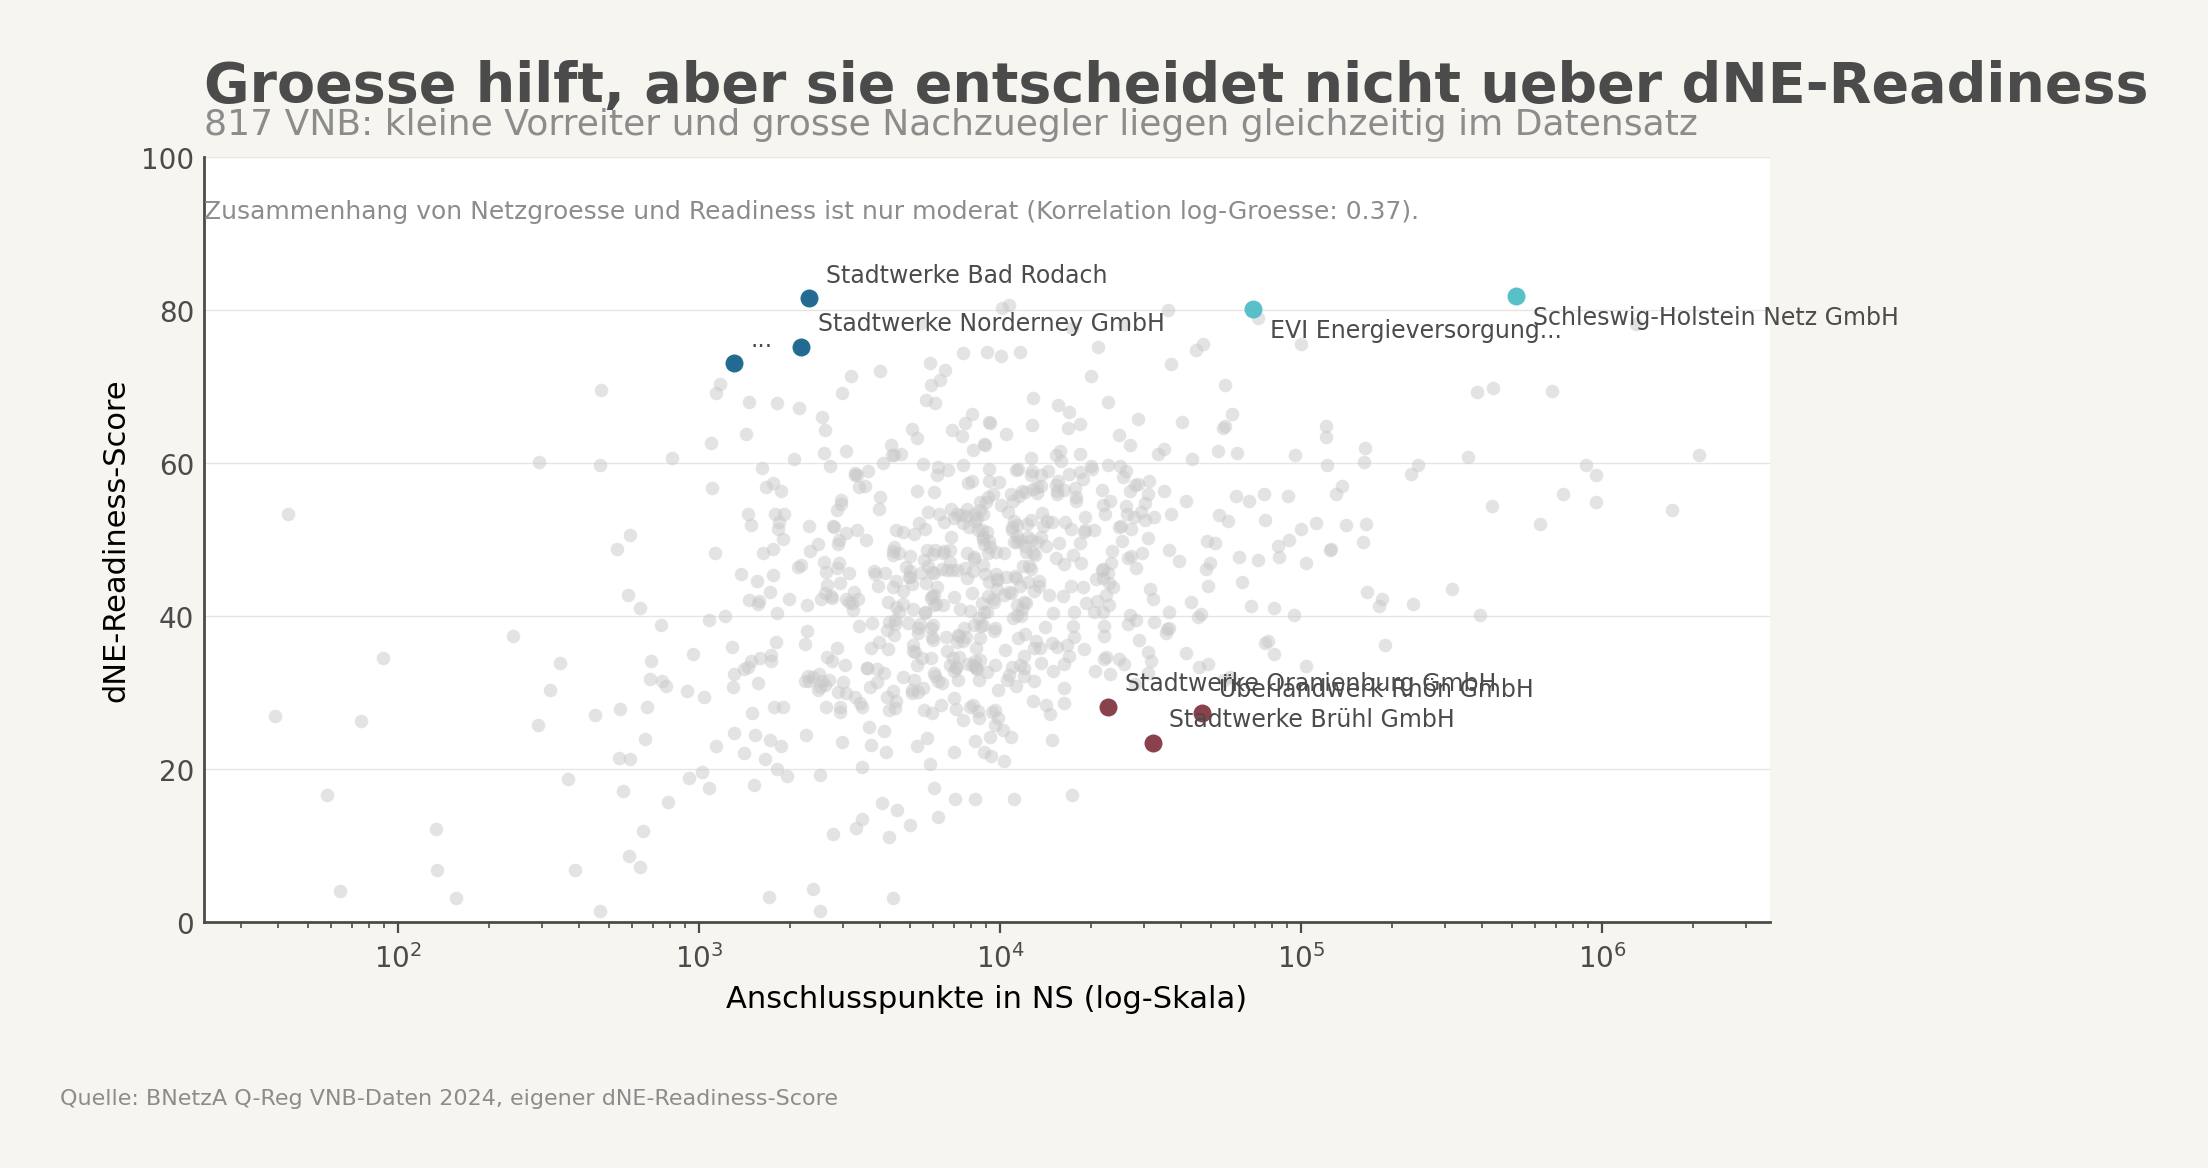
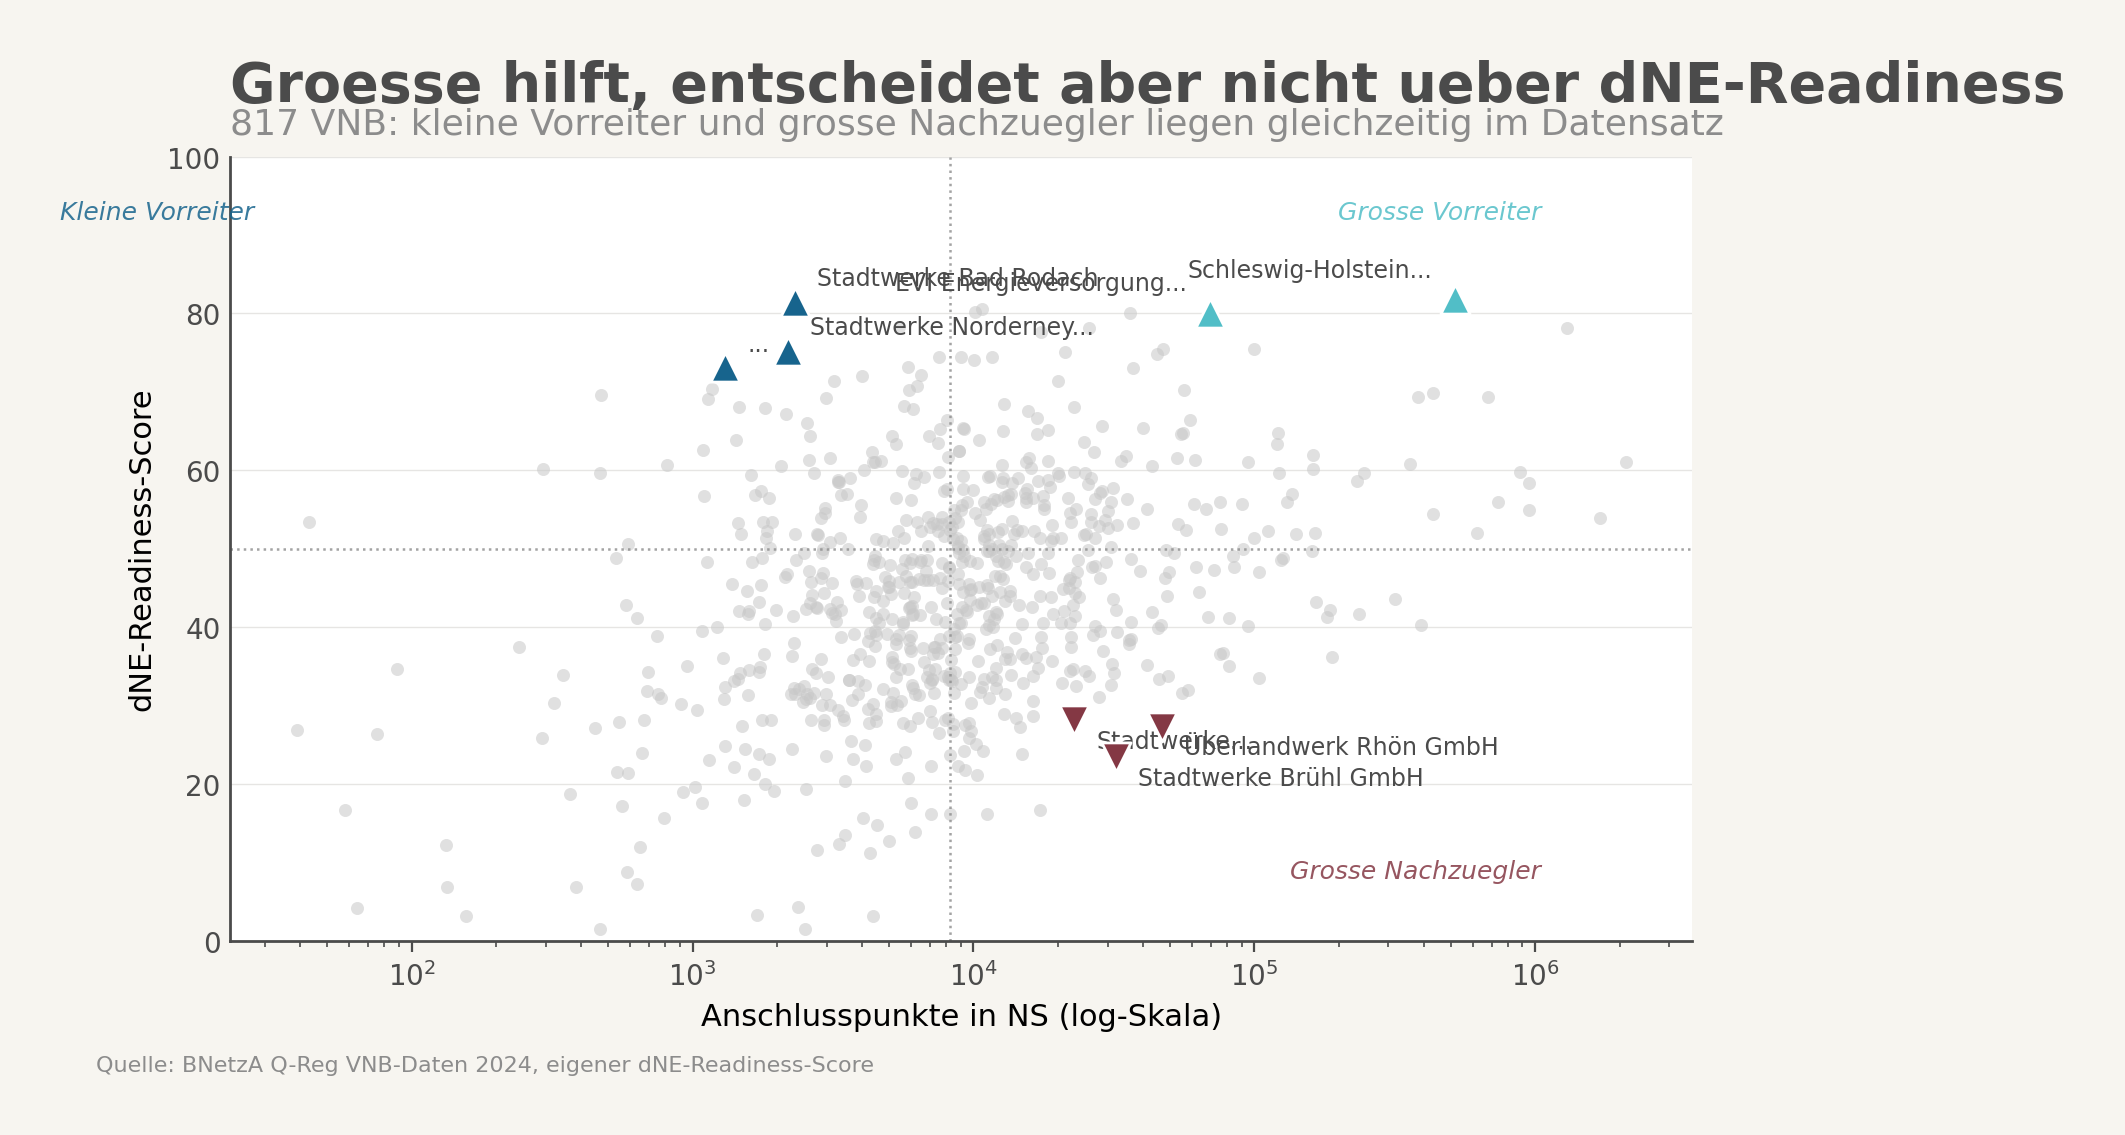
Refresh VNB readiness charts and longform updates
Re-design the three readiness charts via the upgraded viz-advisor agent:
slope chart with direct labels for the bucket-components chart, semantic
threshold-aware colour and reference line for the feature-gaps chart,
and quadrant-structured scatter with marker-shape distinction for the
size-vs-readiness chart. Also picks up the rewritten netzentgelt longform
(new Hauptbefund / Mainstream-Frame structure).

diff --git a/content/posts/netzentgelt-explosion-2024/index.md b/content/posts/netzentgelt-explosion-2024/index.md
@@ -9,96 +9,97 @@ subtitle: Wie der Wegfall des 24b-Bundeszuschusses 2024 die UeNB-Entgelte verdop
 tag: Regulierung
 tags:
 - Regulierung
-read_time: 7 Min.
+read_time: 8 min
 linkedin_post: 2026-05-01_netzentgelt-explosion-2024
 analyses:
 - 2026-04-30_netzentgelt-explosion-2024
-hypothesis: 2026-04-23_netzentgelt-explosion-2024
+hypothesis: 2026-04-23_netzentgelte-regionale-armut
 ---
 
-## Ausgangspunkt
+## Auslöser
 
-2024 stiegen die Uebertragungsnetzentgelte in Deutschland um 117%. Gleichzeitig sank die regionale Spreizung der Verteilnetzentgelte. Das klingt nach einer guten und einer schlechten Nachricht. In Wirklichkeit ist beides dieselbe Geschichte, und sie ist komplizierter als es auf den ersten Blick aussieht.
+Im November 2023 hat das Bundesverfassungsgericht den Nachtragshaushalt 2021 fuer verfassungswidrig erklaert. Der Bundeszuschuss zu den Uebertragungsnetzentgelten nach Paragraph 24b EnWG, der 2023 noch 12,84 Mrd. EUR betrug, war damit ohne Finanzierungsgrundlage. Fuer das erste Halbjahr 2024 wurde der bereits geplante Zuschuss von 5,5 Mrd. EUR gestrichen. Der naechste BNetzA-Monitoringbericht zeigte das Ergebnis: 117 Prozent mehr UeNB-Entgelt von einem Jahr aufs andere.
 
-Dieser Artikel dokumentiert die Analyse hinter dem LinkedIn-Post zur Netzentgelt-Spreizung. Er erklaert, wie die Hypothese entstanden ist, welche Daten sie stuetzen, wo die Grenzen liegen und warum der Rueckgang der Spreizung 2024 keine Entwarnung ist.
+Im selben Bericht stand eine zweite, scheinbar gegenlaeufige Zahl. Die regionale Spreizung der Verteilnetzentgelte zwischen Bremen und Brandenburg sank 2024 wieder. Eine schlechte und eine gute Nachricht? In Wirklichkeit ist beides dieselbe Geschichte.
 
-## Wie die Hypothese entstanden ist
+## Hauptbefund
 
-Die Ausgangsvermutung war einfach: Der Wegfall des Bundeszuschusses nach Paragraph 24b EnWG hat die UeNB-Entgelte 2024 schlagartig verdoppelt, und die regionale Spreizung der VNB-Netzentgelte hat 2023 einen neuen Hoechststand erreicht. Beides steht in den BNetzA-Monitoringberichten, wird aber selten zusammen betrachtet.
+**Die Uebertragungsnetzentgelte sind 2024 von 0,54 auf 1,17 ct/kWh gesprungen, eine Verdopplung in einem Jahr.** Alle vier Uebertragungsnetzbetreiber (50Hertz, Amprion, TenneT, TransnetBW) liegen exakt auf demselben Wert, weil der Bundeszuschuss bis 2023 die Entgelte kuenstlich auf einen einheitlichen Korridor gehalten hatte. Mit dem Wegfall des Paragraph-24b-Zuschusses zeigt sich die wahre Hoehe.
 
-Plausibel war das, weil der Bundeszuschuss (12,84 Mrd. EUR fuer 2023, finanziert ueber das Strompreisbremsegesetz) die UeNB-Entgelte kuenstlich niedrig gehalten hatte. Als das Bundesverfassungsgericht im November 2023 den Nachtragshaushalt kippte, fiel die Finanzierungsgrundlage weg. Der fuer das erste Halbjahr 2024 geplante Zuschuss von 5,5 Mrd. EUR wurde gestrichen.
+**Die regionale Spreizung der Verteilnetzentgelte sank 2024 von 1,99 auf 1,59, hat aber nichts mit Entwarnung zu tun.** Der Rueckgang kommt zustande, weil die guenstigen Bundeslaender (Bayern +35 Prozent, Bremen +32 Prozent, NRW +30 Prozent) deutlich teurer wurden, waehrend die teuren stagnierten (Brandenburg unveraendert, Mecklenburg-Vorpommern +3 Prozent). Das ist Nivellierung nach oben, nicht Konvergenz nach unten. 2025 dreht das Muster wieder, der Spreizungsfaktor klettert auf 1,78.
 
-Drei Gegenhypothesen standen im Raum: Erstens, dass die Spreizung schon immer so hoch war und nur die Absolutwerte gestiegen sind. Zweitens, dass der Zuschuss-Wegfall fuer den Buerger ein Nullsummenspiel ist, weil die Kosten vorher ueber Steuern finanziert wurden. Drittens, dass die Spreizung nicht mit dem EE-Ausbau zusammenhaengt, sondern mit der Siedlungsdichte.
+In Summe: das deutsche Netzentgelt-System ist strukturell instabil. Zwei sich gegenlaeufig bewegende Effekte erzeugen Zickzack-Zeitreihen ohne klaren Trend. Wer in dem Mustern Entwarnung liest, liest falsch.
 
-Die Frage hat sich analytisch gelohnt, weil die BNetzA die Daten publiziert, aber niemand sie als Zeitreihe aufbereitet. Die Netzentgelt-Debatte wird abstrakt gefuehrt, die konkreten Zahlen kennt kaum jemand.
+## Was der Mainstream-Frame verdeckt
 
-## Datenbasis
+Die oeffentliche Kommunikation 2024 fokussierte auf zwei Dinge: den UeNB-Sprung als kurzfristigen Schock und die Hoffnung, die Spreizung sei kein dauerhaftes Problem. Beide Lesarten greifen zu kurz.
 
-Die Analyse stuetzt sich auf die Tabelle `bnetza.netzentgelte_strom` mit 1.116 Datensaetzen, extrahiert aus den BNetzA-Monitoringberichten der Jahre 2015 bis 2025.
+Erstens, weil die Bundesland-Mittelwerte die wahre Spreizung systematisch unterzeichnen. Die BNetzA-Daten geben mengengewichtete Durchschnittswerte je Bundesland. Auf Netzbetreiber-Ebene unterscheiden sich die Entgelte nach Verbraucherzentrale-Daten um bis zu 15 ct/kWh. Wenn der gewichtete Bundesland-Durchschnitt schon 1,99-fach spreizt, ist die wahre Streuung zwischen einzelnen Verteilnetzen ein Vielfaches davon.
 
-Zwei Datenstrecken:
+Zweitens, weil der Spreizungsfaktor als Kennzahl Bewegungen verschleiert. Ein Faktor 1,59 in 2024 sieht nach Annaeherung aus. In Wirklichkeit sind alle Bundeslaender in absoluten Werten teurer geworden, nur unterschiedlich stark. Brandenburg blieb bei exakt 12,45 ct/kWh. Bayern stieg von 7,82 auf 10,56 ct/kWh. Beide sind teurer als 2023, aber Bayern ist relativ schneller geworden, also schrumpft das Verhaeltnis.
 
-1. **UeNB-Entgelte 2014-2024**: Der Arbeitspreis fuer Industriekunden (Referenz: 4500 Volllaststunden, Hoechstspannungsebene HoeS) fuer die vier Uebertragungsnetzbetreiber 50Hertz, Amprion, TenneT und TransnetBW. Das ist der Referenzfall, den die BNetzA in den Monitoringberichten ausweist. Fuer Haushaltskunden gelten andere Werte, weil mehrere Netzebenen und Lastprofile in das Gesamtnetzentgelt einfliessen.
+Die wirkliche Verteilungsfrage liegt deshalb nicht im Spreizungsfaktor, sondern in der absoluten Belastung. Brandenburg-Haushalte zahlen 2024 weiterhin mehr fuer Netzentgelte als Bayern-Haushalte. Der Faktor faellt nur, weil Bayern aufholt. Aus Sicht eines Haushalts ist das keine Entlastung.
 
-2. **VNB-Haushaltsnetzentgelte 2017-2025**: Mengengewichtete Mittelwerte des Arbeitspreises fuer Haushaltskunden je Bundesland. Ohne Grundpreis (der im Bundesdurchschnitt 2024 bei 75 EUR lag, mit Maxima bis 200 EUR) und ohne Messstellenbetrieb. Diese Mittelwerte glaetten die VNB-interne Spreizung erheblich. Laut Verbraucherzentrale Bundesverband liegen die Unterschiede auf Netzbetreiberebene bei bis zu 15 ct/kWh. Der Spreizungsfaktor 1,99 auf Bundesland-Ebene ist damit eher die Untergrenze der realen Spreizung.
+## Wo die Reform-Diagnose wirklich liegt
 
-Keine Ausschluesse, keine Filter. Alle 16 Bundeslaender, alle vier UeNBs.
+Die strukturelle Diagnose ist eine andere. Das deutsche Netzentgelt-System ist seit 20 Jahren auf Kosten-Anpassung kalibriert, nicht auf Kosten-Verteilung. Wer Netz baut und Last hat, zahlt. Wer dezentral einspeist und Netz braucht, zahlt mit. Die UeNB- und VNB-Ebenen sind dabei methodisch entkoppelt: Die UeNB-Entgelte werden inzwischen bundeseinheitlich gewaelzt, die VNB-Entgelte je Netzbetreiber kalkuliert.
 
-## Vorgehen
+Diese Trennung wird in der naechsten Reformrunde anders. Im August 2024 hat die BNetzA entschieden, EE-bedingte Verteilnetzkosten ab 2025 bundesweit zu wälzen. Ab 2026 gilt ein Aufschlag fuer besondere Netznutzung von 1,56 ct/kWh. Das ist die direkte regulatorische Antwort auf die regionale Spreizung. Ob sie wirkt, zeigen die naechsten Monitoringberichte.
 
-Die Analyse bestand aus drei Schritten.
+Parallel laeuft das AgNes-Verfahren der BNetzA, das ab 2029 dynamische Netzentgelte einfuehren soll. Das ist die zweite Reform-Schicht, sie wirkt zeitlich versetzt. Wer die heutige Spreizung loesen will, hat zwei Hebel: bundesweite Waelzung als kurzfristigen Ausgleich, dynamische Netzentgelte als langfristige Standortsteuerung. Beide haben Risiken, beide werden separat heftig diskutiert. Was im aktuellen System fehlt, ist ein dritter Hebel: eine soziale Komponente, die Haushalte mit geringem Verbrauch, die ueberproportional vom Grundpreis getroffen werden, gegen die naechsten Wellen schuetzt.
 
-**Schritt 1: UeNB-Zeitreihe.** Zuerst habe ich die Entgelte der vier UeNBs als Zeitreihe 2014-2024 aufgetragen. Das Ergebnis war ueberraschend klar: Vor 2023 hatte jeder UeNB eigene Entgelte. TenneT war der Ausreisser nach oben (bis 0,70 ct/kWh in 2018), TransnetBW lag am niedrigsten (0,19 ct/kWh in 2014). Ab 2018 konvergierten alle vier langsam, bis sie 2023 bei exakt 0,54 ct/kWh landeten, dem Wert nach Paragraph 24b. 2024 sprangen alle vier auf 1,17 ct/kWh. Die Konvergenz vor der Vereinheitlichung zeigt, dass die regulatorische Angleichung schon laenger lief. Der Zuschuss hat den Sprung nur kuenstlich verzoegert.
+## Internationaler Kontext
 
-![UeNB-Entgelte 2014-2024: Konvergenz und Sprung nach Paragraph 24b](netzentgelte_uenb_zeitreihe.png)
+Im EU-Vergleich ist die deutsche Spreizung ungewoehnlich. Frankreich kennt nur eine UeNB-Ebene mit nationalem Tarif, die VNB-Ebene wird ueber regulierte Konzessionsvertraege gleichgeschaltet. Das niederlaendische Modell aehnelt dem deutschen, aber mit einer Anschluss-Kostendeckung durch den Netzbetreiber, nicht durch den Investor. Beide Laender haben deutlich kleinere Spreizungen.
 
-**Schritt 2: Bundesland-Ranking 2023.** Als naechstes habe ich die VNB-Haushaltsnetzentgelte fuer 2023 nach Bundesland sortiert. Bremen lag bei 6,27 ct/kWh, Brandenburg bei 12,45 ct/kWh. Der Spreizungsfaktor Max/Min betrug 1,99. Das Ost-West-Muster ist sichtbar, aber nicht deterministisch: Schleswig-Holstein (12,15 ct/kWh, West) und Hamburg (10,63 ct/kWh, West) liegen ueber dem Bundesdurchschnitt von 9,23 ct/kWh, waehrend Bayern (7,82 ct/kWh, West) und Thueringen (8,33 ct/kWh, Ost) nah beieinander liegen. Die treibende Variable ist nicht Ost vs. West, sondern die Kombination aus EE-Ausbau und Siedlungsdichte.
+Die deutsche Eigenheit liegt in zwei Punkten: erstens an der historisch gewachsenen Vielzahl von 866 Verteilnetzbetreibern mit eigenen Kalkulationsregeln. Zweitens an der bewussten Entscheidung, EE-Anschlusskosten direkt im jeweiligen Verteilnetz zu kalkulieren statt bundesweit zu waelzen. Diese Entscheidung steht jetzt zur Korrektur an.
 
-![VNB-Haushaltsnetzentgelte je Bundesland 2023, sortiert](netzentgelte_bundeslaender_ranking.png)
+## Was die Untersuchung gelernt hat
 
-{{< map src="/maps/netzentgelt-explosion-2024/netzentgelte_choropleth_2020_2024.html" caption="Interaktive Karte: VNB-Mittelwerte je Bundesland mit Slider 2020-2024" >}}
+Die Ausgangsvermutung lautete: die Spreizung waechst monoton, der UeNB-Sprung ist eine separate Geschichte. Beide Annahmen waren zu einfach.
 
-**Schritt 3: Spreizungsfaktor-Zeitreihe und der 2024-Twist.** Dann habe ich den Spreizungsfaktor fuer jedes Jahr 2017-2025 berechnet: das Verhaeltnis des teuersten zum guenstigsten Bundesland. Das Ergebnis war kein monotoner Anstieg, sondern ein Zickzack: 1,60 (2017), 1,89 (2018), 1,68 (2019), 1,73 (2020), 1,85 (2021), 1,67 (2022), 1,99 (2023), 1,59 (2024), 1,78 (2025). Der Rueckgang 2024 auf 1,59 sah nach Entwarnung aus. War er nicht.
+Geschaerft: die Spreizung ist nicht monoton, sondern volatil mit Zickzack-Muster zwischen 1,59 und 1,99 in nur acht Jahren. Sie schwankt staerker als die regulatorischen Entscheidungen es erklaeren koennten. Plus: der UeNB-Sprung und der Spreizungs-Rueckgang 2024 sind direkt verbunden, nicht zwei getrennte Geschichten. Beide sind Folge derselben fiskalischen Entscheidung.
 
-![Spreizungsfaktor 2017-2025: Zickzack ohne klaren Trend](netzentgelte_spreizungsfaktor.png)
+Bestaetigt: die Verteilungswirkung ist scharf. Brandenburg-Haushalte zahlen ein Vielfaches der Bremer Haushalte fuer dieselbe Kilowattstunde Netzentgelt. Wer das fuer ein Detail haelt, hat den Effekt nicht in Euro pro Jahr und Haushalt umgerechnet.
 
-Ein Vergleich 2023 vs. 2024 auf Bundesland-Ebene zeigte: Brandenburg blieb bei exakt 12,45 ct/kWh (+0%), Mecklenburg-Vorpommern stieg nur um 3%. Gleichzeitig legten Bayern um 35% zu (7,82 auf 10,56 ct/kWh), Bremen um 32%, NRW um 30%. Die billigen Bundeslaender holten auf, die teuren stagnierten. Das drueckte den Spreizungsfaktor rechnerisch nach unten, obwohl fast alle Bundeslaender absolut teurer wurden. Nivellierung nach oben.
-
-## Ergebnisse
-
-**Befund 1: UeNB-Verdopplung bestaetigt.** 0,54 auf 1,17 ct/kWh (+117%), getrieben durch den Wegfall des Bundeszuschusses nach dem BVerfG-Haushaltsurteil. Die Vereinheitlichung auf einen Wert zeigt, dass alle vier UeNBs regulatorisch gleichgeschaltet sind.
-
-**Befund 2: VNB-Rekordspreizung 2023.** Faktor 1,99 (Bremen 6,27 vs. Brandenburg 12,45 ct/kWh). Der hoechste Wert im Betrachtungszeitraum 2017-2025.
-
-**Befund 3: Nivellierung nach oben 2024.** Die Spreizung sank auf 1,59, aber nur weil die billigen Bundeslaender stark anstiegen (Bayern +35%, Bremen +32%), waehrend die teuren weitgehend stagnierten (Brandenburg +0%). Strukturell keine Entwarnung.
-
-**Befund 4: 2025 mischt die Karten neu.** Brandenburg faellt auf 10,28 ct/kWh, Hamburg schiesst auf 14,17 ct/kWh an die Spitze. Die Spreizung steigt wieder auf 1,78. Das Zickzack-Muster ohne klaren Trend zeigt ein strukturell instabiles System.
-
-**Befund 5: Die Stagnation Brandenburgs ist auffaellig.** Ein exakt gleichbleibender Wert bei einem Bundesland mit dynamischem EE-Ausbau und hoher Netzkostendynamik ist erklaerungsbeduerftig. Ob Regulierungseffekt oder Daten-Artefakt im Monitoringbericht, laesst sich aus den vorliegenden Daten nicht klaeren.
-
-## Was das fuer die Hypothese bedeutet
-
-Die Hypothese ist im Kern bestaetigt, wurde aber durch die Analyse erheblich erweitert.
-
-Die UeNB-Verdopplung durch den Paragraph-24b-Wegfall ist der einfachste Teil: klar, quantifizierbar, kausal nachvollziehbar. Die VNB-Spreizung ist komplexer. Der Rekord 2023 ist bestaetigt, aber die Zeitreihe zeigt, dass die Spreizung nicht monoton waechst, sondern schwankt. Die urspruengliche Intuition war "die Spreizung waechst", der tatsaechliche Befund ist "die Spreizung ist volatil und strukturell instabil".
-
-Der unerwartete Befund der Nivellierung nach oben 2024 war nicht Teil der Ausgangshypothese. Er zeigt, dass sinkende Spreizungsfaktoren nicht automatisch Entwarnung bedeuten, wenn sie durch allgemeine Kostensteigerungen getrieben werden.
+Relativiert: ein einzelner Bundesland-Mittelwert sagt wenig. Die Verteilungswirkung auf Netzbetreiber-Ebene ist deutlich groesser, aber in den BNetzA-Daten nur indirekt sichtbar.
 
 ## Grenzen und offene Punkte
 
-**Bundesland-Mittelwerte verschleiern die VNB-Spreizung.** Die BNetzA-Daten zeigen mengengewichtete Mittelwerte. Die wahre Spreizung auf Netzbetreiberebene ist dramatisch groesser.
+Sechs methodische Vorbehalte sind explizit zu nennen.
 
-**Grundpreis fehlt.** Die Analyse betrachtet nur den Arbeitspreis (ct/kWh). Der Grundpreis (im Bundesdurchschnitt 75 EUR/Jahr in 2024) belastet Haushalte mit geringem Verbrauch ueberproportional.
+**Bundesland-Mittelwerte verschleiern die VNB-Spreizung.** Die BNetzA publiziert mengengewichtete Mittelwerte. Die wahre Spreizung auf Netzbetreiber-Ebene ist dramatisch groesser. Die Verbraucherzentrale Bundesverband nennt Differenzen bis 15 ct/kWh.
 
-**UeNB-Referenzfall ist Industrie, nicht Haushalt.** Die 0,54 und 1,17 ct/kWh gelten fuer Industriekunden auf Hoechstspannungsebene. Fuer Haushaltskunden fliesst der UeNB-Anteil ueber vorgelagerte Netzebenen in das Gesamtnetzentgelt ein und ist nicht direkt vergleichbar.
+**Grundpreis fehlt.** Die Analyse betrachtet nur den Arbeitspreis. Der Grundpreis (Bundesdurchschnitt 75 EUR/Jahr in 2024, mit Maxima bis 200 EUR) belastet Haushalte mit geringem Verbrauch ueberproportional.
 
-**BNetzA-Festlegung ab 2025.** Im August 2024 hat die BNetzA entschieden, EE-bedingte Verteilnetzkosten ab 2025 bundesweit zu waelzen. Ab 2026 gilt ein Aufschlag fuer besondere Netznutzung von 1,56 ct/kWh. Das ist die direkte regulatorische Antwort auf die Spreizung. Ob sie wirkt, zeigen die naechsten Monitoringberichte.
+**UeNB-Referenzfall ist Industrie, nicht Haushalt.** Die 0,54 und 1,17 ct/kWh gelten fuer Industriekunden auf Hoechstspannungsebene. Fuer Haushaltskunden fliesst der UeNB-Anteil ueber vorgelagerte Netzebenen in das Gesamtnetzentgelt ein.
 
-**Kausalitaet EE-Ausbau.** Die Korrelation zwischen hoher EE-Leistung und hohen Netzentgelten (Brandenburg, Schleswig-Holstein) ist plausibel, aber in dieser Analyse nicht quantifiziert. Siedlungsdichte ist ein Confounder.
+**BNetzA-Festlegung ab 2025.** Im August 2024 hat die BNetzA entschieden, EE-bedingte Verteilnetzkosten bundesweit zu waelzen. Ab 2026 gilt ein Aufschlag von 1,56 ct/kWh. Wirkung in den naechsten Monitoringberichten zu beobachten.
 
-**Paragraph 14a EnWG.** Ab 2024 gelten Netzentgeltrabatte fuer steuerbare Verbrauchseinrichtungen (Waermepumpen, Wallboxen). Das veraendert die Netzentgelt-Landschaft zusaetzlich und ist hier nicht beruecksichtigt.
+**Kausalitaet EE-Ausbau.** Die Korrelation zwischen hoher EE-Leistung und hohen Netzentgelten (Brandenburg, Schleswig-Holstein) ist plausibel, aber nicht quantifiziert. Siedlungsdichte ist ein Confounder.
 
-## Verformelung der Berechnung
+**Paragraph 14a EnWG.** Ab 2024 gelten Netzentgeltrabatte fuer steuerbare Verbrauchseinrichtungen (Waermepumpen, Wallboxen). Das veraendert die Landschaft zusaetzlich und ist hier nicht beruecksichtigt.
+
+---
+
+## Anhang A: Datenbasis und Vorgehen
+
+Die Auswertung stuetzt sich auf 1.116 Datensaetze aus den BNetzA-Monitoringberichten 2015 bis 2025. Zwei Datenstrecken.
+
+Erstens die UeNB-Entgelte 2014-2024: der Arbeitspreis fuer Industriekunden bei 4.500 Volllaststunden auf Hoechstspannungsebene fuer die vier Uebertragungsnetzbetreiber. Das ist der Referenzfall, den die BNetzA in den Monitoringberichten ausweist.
+
+Zweitens die VNB-Haushaltsnetzentgelte 2017-2025: mengengewichtete Mittelwerte des Arbeitspreises fuer Haushaltskunden je Bundesland, ohne Grundpreis und ohne Messstellenbetrieb. Diese Mittelwerte glaetten die VNB-interne Spreizung erheblich.
+
+Keine Ausschluesse, keine Filter. Alle 16 Bundeslaender, alle vier Uebertragungsnetzbetreiber.
+
+Vorgehen in drei Schritten. Erstens UeNB-Zeitreihe 2014-2024: der Sprung 2024 wird sichtbar, die Konvergenz vor der Vereinheitlichung zeigt, dass die regulatorische Angleichung schon vor 2023 lief. Zweitens Bundesland-Ranking 2023: Sortierung nach Hoehe, das Ost-West-Muster wird sichtbar aber nicht deterministisch. Drittens Spreizungsfaktor-Zeitreihe 2017-2025: Zickzack-Muster ohne klaren Trend, der scheinbare Rueckgang 2024 ist Nivellierung nach oben.
+
+Drei Charts illustrieren die Befunde:
+- UeNB-Entgelte 2014-2024 (Zeitreihe Konvergenz und Sprung)
+- VNB-Haushaltsnetzentgelte je Bundesland 2023 (Ranking sortiert)
+- Spreizungsfaktor 2017-2025 (Zickzack)
+
+## Anhang B: Verformelung der Berechnung
 
 ```text
 Spreizungsfaktor (Jahr t) = max(VNB_Haushalt_mean_BL_t) / min(VNB_Haushalt_mean_BL_t)
@@ -110,7 +111,7 @@ wobei:
   BL = {Bremen, Hamburg, Bayern, ..., Brandenburg} (16 Bundeslaender)
   t = 2017, 2018, ..., 2025
 
-UeNB-Veraenderung 2024 = (1,17 - 0,54) / 0,54 * 100 = +116,7% ≈ +117%
+UeNB-Veraenderung 2024 = (1,17 - 0,54) / 0,54 * 100 = +116,7% rd. +117%
 
 wobei:
   0,54 ct/kWh = vereinheitlichtes UeNB-Entgelt 2023 (alle 4 UeNBs identisch)
@@ -131,8 +132,10 @@ Beispiel Brandenburg: (12,45 - 12,45) / 12,45 * 100 = +0,0%
 - BNetzA Monitoringbericht 2024 (Daten fuer 2023)
 - BNetzA Monitoringbericht 2025 (Daten fuer 2024 und 2025)
 - BNetzA Festlegung August 2024 zur Verteilung EE-bedingter Verteilnetzkosten (Paragraph 19 StromNEV)
+- Verbraucherzentrale Bundesverband, Netzentgelt-Vergleich auf Netzbetreiber-Ebene 2024
+
+Vault-interne Verweise:
 - Analyse: [2026-04-30_netzentgelt-explosion-2024](../netzentgelt-explosion-2024/)
-- Hypothese: [2026-04-23_netzentgelt-explosion-2024](../netzentgelt-explosion-2024/)
 - Concept: [nord-sued-gefaelle](../nord-sued-gefaelle/)
 - Chart-Skript: `src/viz/netzentgelte_charts.py`
 - Marimo-Notebook: `notebooks/netzentgelt_explosion.py`

diff --git a/content/posts/dne-vnb-implementierungsluecke/index.md b/content/posts/dne-vnb-implementierungsluecke/index.md
@@ -1,10 +1,10 @@
 ---
-title: 'dNE auf VNB-Ebene: Warum die Debatte ein Backend-Test fuer Stadtwerke ist'
+title: 'dNE auf VNB-Ebene: Warum die Debatte ein Backend-Test für Stadtwerke ist'
 date: '2026-05-03'
 slug: dne-vnb-implementierungsluecke
 draft: false
 subtitle: Warum dynamische Netzentgelte auf VNB-Ebene weniger an der Tariflogik als
-  an Netzplanung und IT-Backends haengen.
+  an Netzplanung und IT-Backends hängen.
 tag: Regulierung
 tags:
 - Regulierung
@@ -16,89 +16,83 @@ analyses:
 hypothesis: 2026-05-03_dne-vnb-implementierungsluecke
 ---
 
-## Ausloeser
+## Auslöser
 
-Aurora schrieb Ende April 2026, eine Umsetzung dynamischer Netzentgelte auf der Ebene der Verteilnetzbetreiber sei wegen Zahl der Akteure, Datenpunkte und Schnittstellen praktisch kaum vorstellbar. Gleichzeitig zeigt das AGNES-Handout der Bundesnetzagentur, dass die Debatte nicht im Seminarraum bleibt, sondern in Richtung konkreter Reformpfad ab 2029 laeuft. Das ist der Punkt, an dem die Frage kippt: nicht mehr ob dNE theoretisch effizient sein koennte, sondern ob die VNB-Schicht sie operativ ueberhaupt fahren kann.
+Aurora schrieb Ende April 2026, eine Umsetzung dynamischer Netzentgelte auf der Ebene der Verteilnetzbetreiber sei wegen Zahl der Akteure, Datenpunkte und Schnittstellen praktisch kaum vorstellbar. Gleichzeitig zeigt das AGNES-Handout der Bundesnetzagentur, dass die Debatte nicht im Seminarraum bleibt, sondern in Richtung konkreter Reformpfad ab 2029 läuft. Das ist der Punkt, an dem die Frage kippt: nicht mehr ob dNE theoretisch effizient sein könnte, sondern ob die VNB-Schicht sie operativ überhaupt fahren kann.
 
 ## Ausgangspunkt
 
-Die oeffentliche Debatte ueber dynamische Netzentgelte wird meistens wie eine Preisdebatte gefuehrt. Wer gewinnt regional, wer verliert, was passiert mit Redispatch, wie stark werden Standorteffekte. Die VNB-Perspektive sitzt davor. Wenn die Betreiber regionaler Netze Forecasting, Zeitreihenlogik, Marktkommunikation und abrechenbare Kundenschnittstellen nicht stabil zusammenbekommen, hilft die beste Tarifarchitektur wenig.
+Die öffentliche Debatte über dynamische Netzentgelte wird meistens wie eine Preisdebatte geführt. Wer gewinnt regional, wer verliert, was passiert mit Redispatch, wie stark werden Standorteffekte. Die VNB-Perspektive sitzt davor. Wenn die Betreiber regionaler Netze Forecasting, Zeitreihenlogik, Marktkommunikation und abrechenbare Kundenschnittstellen nicht stabil zusammenbekommen, hilft die beste Tarifarchitektur wenig.
 
-Der erste dNE-Readiness-Score fuer 817 VNB war deshalb kein Ranking aus Neugier, sondern ein Vorabtest auf Umsetzbarkeit. Das Ergebnis ist unangenehm klar: Der Median liegt bei 44,7 Punkten, nur 31 VNB kommen ueber 70, und der groesste Abstand sitzt bei Planung, nicht bei Ausfuehrung.
+Der erste dNE-Readiness-Score für 817 VNB war deshalb kein Ranking aus Neugier, sondern ein Vorabtest auf Umsetzbarkeit. Das Ergebnis ist unangenehm klar: Der Median liegt bei 44,7 Punkten, nur 31 VNB kommen über 70, und der größte Abstand sitzt bei Planung, nicht bei Ausführung.
 
 ## Wie die Hypothese entstanden ist
 
-Die Ausgangsintuition war simpel. Kleine und mittlere Stadtwerke-VNB duerften bei dNE schwacher aufgestellt sein als grosse Verbundakteure. Das lag nahe: weniger Skalenvorteile, weniger IT-Personal, weniger Budget fuer Forecasting und Leitsysteme.
+Die Ausgangsintuition war simpel. Kleine und mittlere Stadtwerke-VNB dürften bei dNE schwacher aufgestellt sein als große Verbundakteure. Das lag nahe: weniger Skalenvorteile, weniger IT-Personal, weniger Budget für Forecasting und Leitsysteme.
 
-Dann kamen die Gegenhypothesen. Erstens: Kleine VNB koennen Shared Services, Dienstleister oder Plattformen einkaufen. Zweitens: Gerade grosse VNB koennten an Legacy-Systemen haengen. Drittens: Die sichtbarsten Kundenschnittstellen, also Portale, Smart-Meter-Seiten und Netzanschluss-Frontends, koennten den Reifegrad ueberschaetzen.
+Dann kamen die Gegenhypothesen. Erstens: Kleine VNB können Shared Services, Dienstleister oder Plattformen einkaufen. Zweitens: Gerade große VNB könnten an Legacy-Systemen hängen. Drittens: Die sichtbarsten Kundenschnittstellen, also Portale, Smart-Meter-Seiten und Netzanschluss-Frontends, könnten den Reifegrad überschätzen.
 
-Genau deshalb lohnte sich die Analyse. Wenn der Score nur Groesse reproduziert, ist er analytisch schwach. Wenn kleine Betreiber weit oben und grosse weit unten auftauchen, muss genauer hingeschaut werden.
+Genau deshalb lohnte sich die Analyse. Wenn der Score nur Größe reproduziert, ist er analytisch schwach. Wenn kleine Betreiber weit oben und große weit unten auftauchen, muss genauer hingeschaut werden.
 
 ## Datenbasis
 
-Die Auswertung basiert auf fuenf lokalen VNB-Tabellen aus dem BNetzA-/Q-Reg-Umfeld:
+Die Auswertung basiert auf fünf VNB-Datensätzen aus dem BNetzA- und Q-Reg-Umfeld: Digitalisierungs-Indikatoren für 815 Verteilnetzbetreiber, Umsetzungsquoten für 817, Anschlussdauern für 817, Netzstruktur-Kennzahlen für 817 und Stammdaten für 701.
 
-- `main.vnb_digitalisierung` mit 815 VNB
-- `main.vnb_umsetzungsquote` mit 817 VNB
-- `main.vnb_anschlussdauer` mit 817 VNB
-- `main.vnb_netzstruktur` mit 817 VNB
-- `main.vnb_stammdaten` mit 701 VNB
+Aus diesen fünf Datensätzen entsteht ein gemeinsamer readiness-score, ergänzt um einen confidence-score zur Datenabdeckung und um eine separate Größenklasse als Segment-Variable. Die drei Dimensionen sind bewusst getrennt:
 
-Der gebaute View `main.v_vnb_dne_readiness` trennt drei Dinge:
-
-1. `readiness_score` als Faehigkeits-Proxymass
-2. `confidence_score` als Datenabdeckung
-3. `groessenklasse` als Segment, nicht als Score-Komponente
+1. der readiness-score als Fähigkeits-Proxymass
+2. der confidence-score als Datenabdeckung
+3. die Größenklasse als Segment, nicht als Score-Komponente
 
 ## Vorgehen
 
-Der Score besteht aus drei Schichten. `Digital` geht mit 45 Prozent ein, `Planung` mit 35 Prozent, `Execution` mit 20 Prozent. Wichtig war dabei eine saubere Trennung: Groesse sollte nicht direkt den Score hochtreiben, und fehlende Daten sollten nicht stillschweigend wie Null-Kompetenz behandelt werden.
+Der Score besteht aus drei Schichten. `Digital` geht mit 45 Prozent ein, `Planung` mit 35 Prozent, `Execution` mit 20 Prozent. Wichtig war dabei eine saubere Trennung: Größe sollte nicht direkt den Score hochtreiben, und fehlende Daten sollten nicht stillschweigend wie Null-Kompetenz behandelt werden.
 
-Die Planungsseite misst deshalb nicht irgendein allgemeines Digitalisierungsgefuehl, sondern konkrete Dinge: GIS-basierte Netzplaene, Netzberechnungsmodell, automatisierte Netzplanung, Prognose der Netzauslastung und zeitreihenbasierte Planung. Auf der Execution-Seite laufen Umsetzungsquoten und Anschlussdauern hinein. Danach kam der entscheidende zweite Schritt: die Plausibilisierung der Ausreisser mit oeffentlichen Unternehmenssignalen.
+Die Planungsseite misst deshalb nicht irgendein allgemeines Digitalisierungsgefühl, sondern konkrete Dinge: GIS-basierte Netzpläne, Netzberechnungsmodell, automatisierte Netzplanung, Prognose der Netzauslastung und zeitreihenbasierte Planung. Auf der Execution-Seite laufen Umsetzungsquoten und Anschlussdauern hinein. Danach kam der entscheidende zweite Schritt: die Plausibilisierung der Ausreißer mit öffentlichen Unternehmenssignalen.
 
 ## Ergebnisse
 
-![Verteilung der Readiness-Scores ueber 817 VNB](vnb_dne_readiness_buckets.png)
+![Verteilung der Readiness-Scores über 817 VNB](vnb_dne_readiness_buckets.png)
 
 Der erste Hauptbefund ist sektorweit: dNE-Readiness ist vor allem ein Planungsproblem. In der Low-Readiness-Gruppe liegt der Execution-Score im Mittel noch bei 59,3, der Planning-Score aber nur bei 36,1. Bei den sektorweiten Einzelbausteinen fallen `automatisierte Netzplanung` mit 13,6 Prozent und `zeitreihenbasierte Planung` mit 17,6 Prozent besonders ab.
 
 ![Sektorweite Adoption einzelner Planungs- und Digital-Features](vnb_dne_feature_gaps.png)
 
-Der zweite Hauptbefund ist gegen die einfache Groessengeschichte gerichtet. Der Zusammenhang zwischen `readiness_score` und `ns_points` ist schwach, auf Log-Skala nur moderat (`0,34`). Viel enger am Gesamtbild liegen `planning_score` (`0,93`) und `digital_score` (`0,92`). Anders gesagt: Groesse hilft, aber sie erklaert die Unterschiede nicht gut genug.
+Der zweite Hauptbefund ist gegen die einfache Größengeschichte gerichtet. Der Zusammenhang zwischen `readiness_score` und `ns_points` ist schwach, auf Log-Skala nur moderat (`0,34`). Viel enger am Gesamtbild liegen `planning_score` (`0,93`) und `digital_score` (`0,92`). Anders gesagt: Größe hilft, aber sie erklärt die Unterschiede nicht gut genug.
 
-![Groesse (NS-Anschlusspunkte, Log-Skala) vs. Readiness-Score](vnb_dne_size_vs_readiness.png)
+![Größe (NS-Anschlusspunkte, Log-Skala) vs. Readiness-Score](vnb_dne_size_vs_readiness.png)
 
-Dafuer sprechen die drei robustesten Beispiel-Faelle.
+Dafür sprechen die drei robustesten Beispiel-Fälle.
 
 ### Fall 1: Schleswig-Holstein Netz als Benchmark oben
 
-Schleswig-Holstein Netz kommt auf `81,8` Punkte. Das passt zum oeffentlichen Bild: Einspeisemanagement mit Online-Tabelle, Hausanschlussportal, Onlineportale fuer Installateure, hohe Einspeisekomplexitaet, mehrere Netzebenen. Das ist kein Ueberraschungsfall, sondern der Erwartungsanker dafuer, wie ein dNE-naher Betreiber aussehen sollte.
+Schleswig-Holstein Netz kommt auf `81,8` Punkte. Das passt zum öffentlichen Bild: Einspeisemanagement mit Online-Tabelle, Hausanschlussportal, Onlineportale für Installateure, hohe Einspeisekomplexität, mehrere Netzebenen. Das ist kein Überraschungsfall, sondern der Erwartungsanker dafür, wie ein dNE-naher Betreiber aussehen sollte.
 
 ### Fall 2: Bad Rodach als kleiner Plattformfall
 
-Stadtwerke Bad Rodach kommen mit nur `2.316` NS-Anschlusspunkten auf `81,5` Punkte. Oeffentlich sichtbar sind ein dynamischer Tarif seit dem `1. Januar 2025`, `iMSys` als Voraussetzung, ein `§14a`-Preisblatt mit `Modul 3` und eine Wilken-nahe EDIFACT-Marktkommunikation. Das ist wichtig, weil es die Story dreht: Kleinheit allein ist kein Hindernis, solange der Backend-Stack steht oder mitgekauft wird.
+Stadtwerke Bad Rodach kommen mit nur `2.316` NS-Anschlusspunkten auf `81,5` Punkte. Öffentlich sichtbar sind ein dynamischer Tarif seit dem `1. Januar 2025`, `iMSys` als Voraussetzung, ein `§14a`-Preisblatt mit `Modul 3` und eine Wilken-nahe EDIFACT-Marktkommunikation. Das ist wichtig, weil es die Story dreht: Kleinheit allein ist kein Hindernis, solange der Backend-Stack steht oder mitgekauft wird.
 
-### Fall 3: Regensburg Netz als grosser Transformationsfall
+### Fall 3: Regensburg Netz als großer Transformationsfall
 
-Regensburg Netz liegt trotz `55.436` NS-Anschlusspunkten bei `31,6` Punkten. Oeffentlich meldete das Unternehmen am `30. April 2025` eine grosse Umstellung der internen Softwarelandschaft. Beim Einbau intelligenter Messsysteme war Anfang 2025 von einer stabilen Wiederaufnahme erst ab `Juli 2025` die Rede. Genau das ist der Typ Fall, den der Score finden soll: gross, professionell, sichtbar digital. Und intern trotzdem nicht weit genug.
+Regensburg Netz liegt trotz `55.436` NS-Anschlusspunkten bei `31,6` Punkten. Öffentlich meldete das Unternehmen am `30. April 2025` eine große Umstellung der internen Softwarelandschaft. Beim Einbau intelligenter Messsysteme war Anfang 2025 von einer stabilen Wiederaufnahme erst ab `Juli 2025` die Rede. Genau das ist der Typ Fall, den der Score finden soll: groß, professionell, sichtbar digital. Und intern trotzdem nicht weit genug.
 
-Diese drei Faelle reichen fuer die Kernaussage bereits aus. Kleine Betreiber koennen mit Plattformen weit vorne liegen. Grosse Betreiber koennen in IT-Umbauten haengen. Die Trennlinie verlaeuft damit eher zwischen tief integrierter Planungs- und Prozessschicht einerseits und kundenseitigem Frontend andererseits.
+Diese drei Fälle reichen für die Kernaussage bereits aus. Kleine Betreiber können mit Plattformen weit vorne liegen. Große Betreiber können in IT-Umbauten hängen. Die Trennlinie verläuft damit eher zwischen tief integrierter Planungs- und Prozessschicht einerseits und kundenseitigem Frontend andererseits.
 
-## Was das fuer die Hypothese bedeutet
+## Was das für die Hypothese bedeutet
 
-Die Hypothese ist im Kern bestaetigt, aber sie muss praeziser formuliert werden.
+Die Hypothese ist im Kern bestätigt, aber sie muss präziser formuliert werden.
 
-Die erste Version hiess sinngemaess: Kleine und mittlere VNB werden dNE bis 2030 oft nicht schaffen. Die bessere Version lautet: Ein grosser Teil der VNB wird dNE ohne tiefere Planungs-, Daten- und Prozessreife nicht schaffen, und diese Reife ist nur teilweise eine Groessenfrage.
+Die erste Version hieß sinngemäß: Kleine und mittlere VNB werden dNE bis 2030 oft nicht schaffen. Die bessere Version lautet: Ein großer Teil der VNB wird dNE ohne tiefere Planungs-, Daten- und Prozessreife nicht schaffen, und diese Reife ist nur teilweise eine Größenfrage.
 
-Das ist ein wichtiger Unterschied. Er macht aus einer einfachen Stadtwerke-Asymmetrie eine Backend- und Plattform-Asymmetrie. Genau deshalb ist Bad Rodach kein Gegenbeweis, sondern ein Schluesselfall. Wenn kleine VNB ueber Shared Services nach oben kommen, dann muss Regulierung auf diese Ebene zielen. Nicht auf moralische Appelle an "mehr Digitalisierung".
+Das ist ein wichtiger Unterschied. Er macht aus einer einfachen Stadtwerke-Asymmetrie eine Backend- und Plattform-Asymmetrie. Genau deshalb ist Bad Rodach kein Gegenbeweis, sondern ein Schlüsselfall. Wenn kleine VNB über Shared Services nach oben kommen, dann muss Regulierung auf diese Ebene zielen. Nicht auf moralische Appelle an "mehr Digitalisierung".
 
 ## Grenzen und offene Punkte
 
-Der Score bleibt ein Proxy-Modell. Er misst sichtbare Reife in bereits erhobenen VNB-Daten, keinen offiziellen BNetzA-Indikator. Die Gewichtung ist analytisch begruendet, aber gesetzt. Andere Gewichte waeren vertretbar.
+Der Score bleibt ein Proxy-Modell. Er misst sichtbare Reife in bereits erhobenen VNB-Daten, keinen offiziellen BNetzA-Indikator. Die Gewichtung ist analytisch begründet, aber gesetzt. Andere Gewichte wären vertretbar.
 
-Der zweite grosse Vorbehalt ist der Zeitversatz. Die Rohdaten stammen primaer aus 2024. Mehrere Websignale der Plausibilisierung stammen aus 2025 oder 2026. Bruehl ist dafuer das beste Beispiel: Im Datensatz niedrig, auf der Website inzwischen sichtbar im Umbau und in der Digitalisierung der Ortsnetzstationen. Das muss kein Fehler sein, sondern kann eine laufende Aufholphase spiegeln.
+Der zweite große Vorbehalt ist der Zeitversatz. Die Rohdaten stammen primär aus 2024. Mehrere Websignale der Plausibilisierung stammen aus 2025 oder 2026. Brühl ist dafür das beste Beispiel: Im Datensatz niedrig, auf der Website inzwischen sichtbar im Umbau und in der Digitalisierung der Ortsnetzstationen. Das muss kein Fehler sein, sondern kann eine laufende Aufholphase spiegeln.
 
-Der dritte Vorbehalt ist fehlende Sichtbarkeit von Shared Services. Wenn ein kleiner VNB Forecasting, Marktkommunikation oder Portalebene systematisch ueber Plattformpartner einkauft, taucht das derzeit nur indirekt im Score auf. Genau dort liegt der naechste Ausbau.
+Der dritte Vorbehalt ist fehlende Sichtbarkeit von Shared Services. Wenn ein kleiner VNB Forecasting, Marktkommunikation oder Portalebene systematisch über Plattformpartner einkauft, taucht das derzeit nur indirekt im Score auf. Genau dort liegt der nächste Ausbau.
 
 ## Verformelung der Berechnung
 
@@ -114,14 +108,14 @@ digital_score =
   + Kundenmanagement / Webportale
 
 planning_score =
-  GIS-Netzplaene
+  GIS-Netzpläne
   + Netzberechnungsmodell
   + automatisierte Netzplanung
   + Prognose der Netzauslastung
   + zeitreihenbasierte Planung
 
 execution_score =
-  Umsetzungsquote EE-Anschluesse NS
+  Umsetzungsquote EE-Anschlüsse NS
   + Umsetzungsquote Verbrauchseinrichtungen/Speicher NS
   + inverse Anschlussdauern
   + papierlose Prozesse